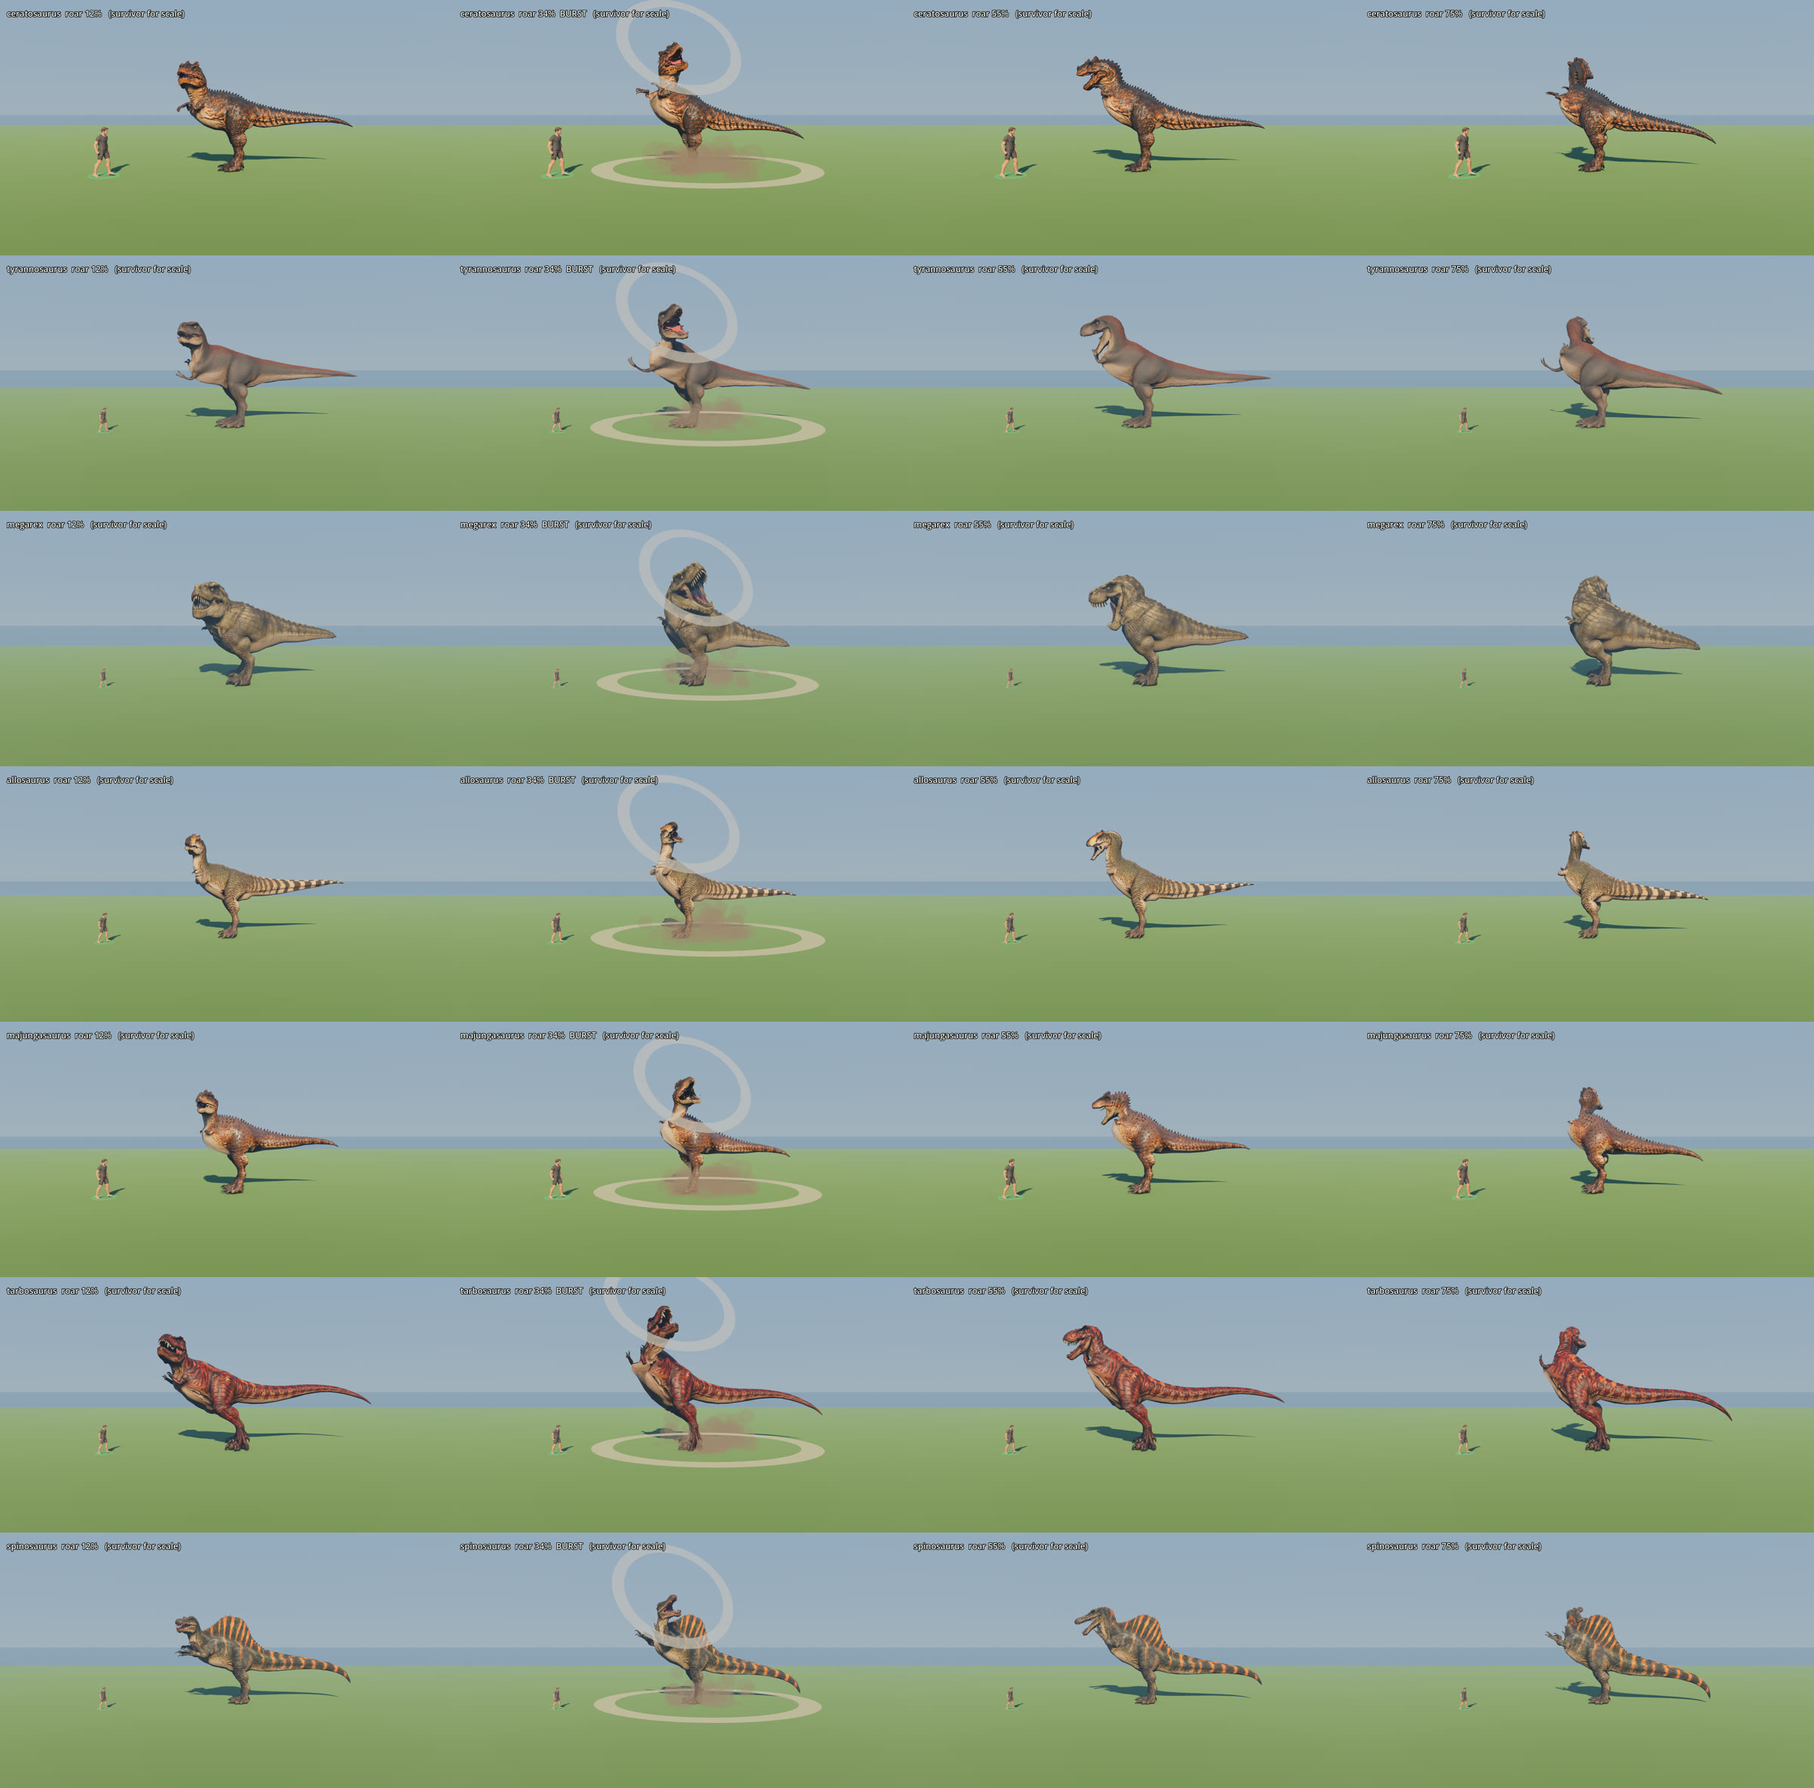
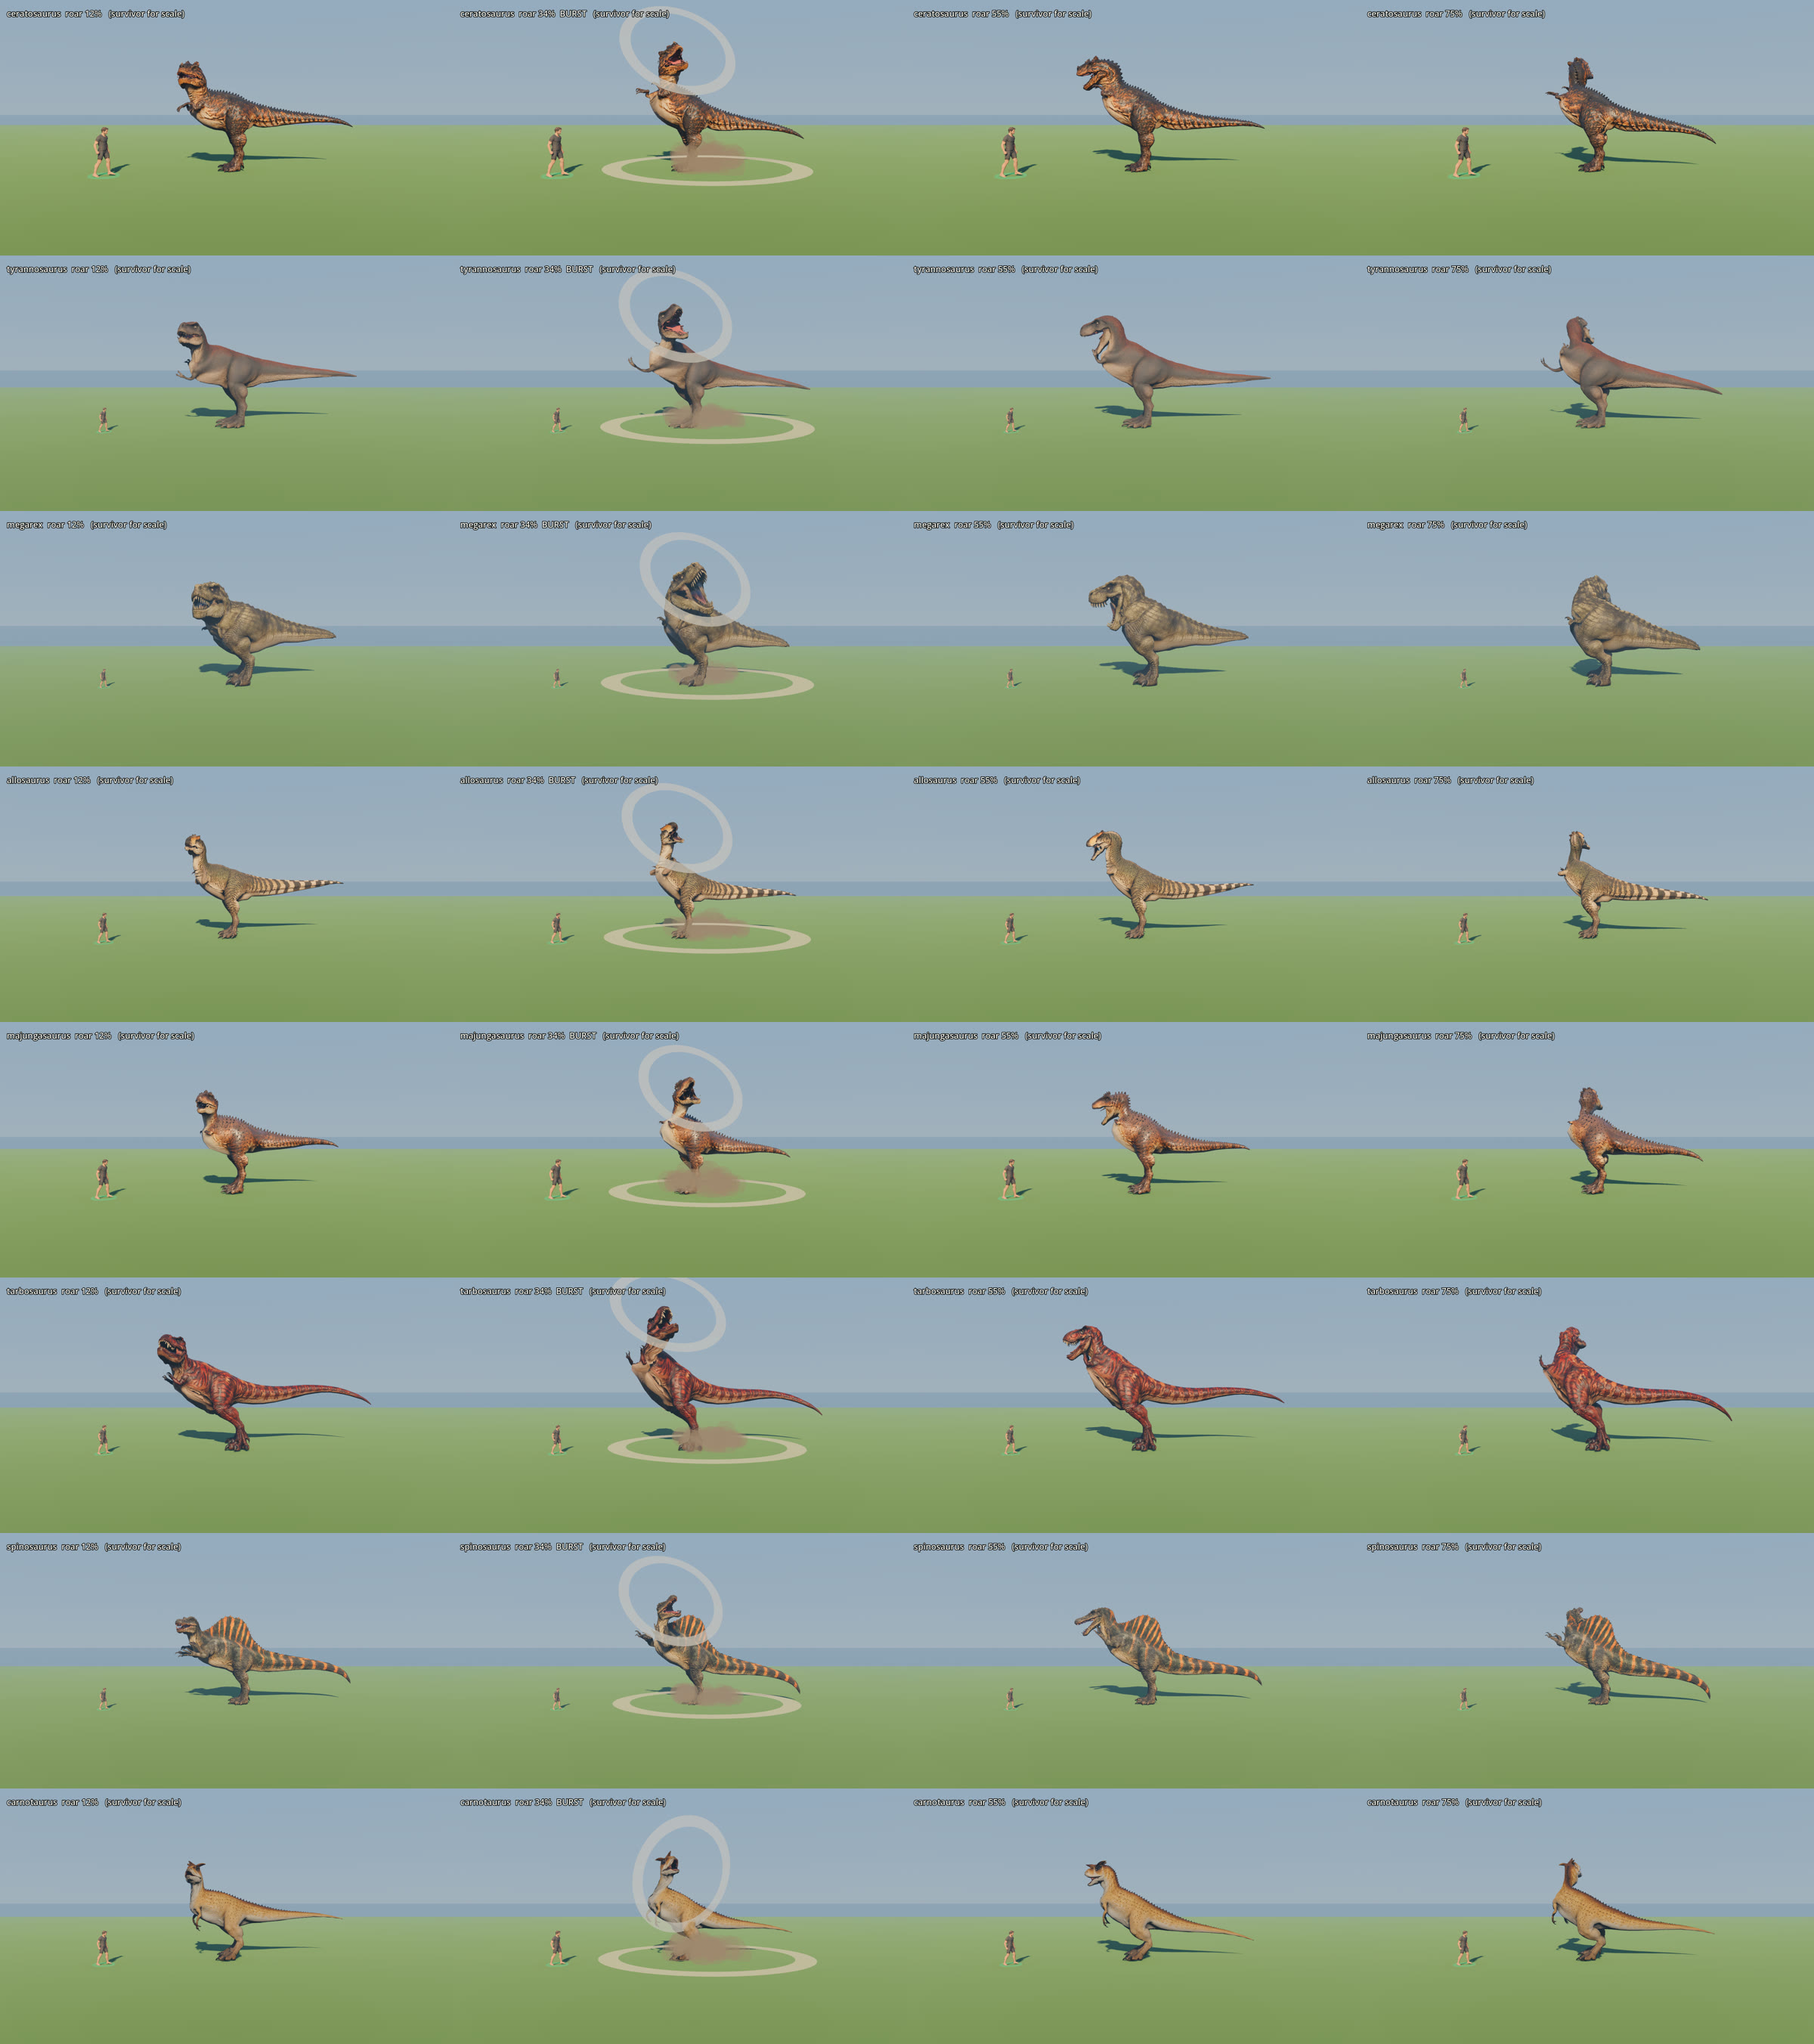
THERO-ROAR report: carnotaurus, merges

diff --git a/docs/orchestration/reports/claude-theroroar.md b/docs/orchestration/reports/claude-theroroar.md
@@ -1,6 +1,6 @@
 # claude-theroroar: rearing roar, ceratosaurus stance, spacing stomp
 
-Branch `claude/mmo-theroroar`, cut from `origin/claude/mmo-overhaul` 47dd42cd. Canon merged again at 91f348a6 (spinosaurus, cooldown UI). Pushed. Not merged to canon.
+Branch `claude/mmo-theroroar`, cut from `origin/claude/mmo-overhaul` 47dd42cd. Canon merged again several times as branches landed: 91f348a6 (spinosaurus, cooldown UI), 2eecfc3e (bigstomp, megatherium), 38ad8b87 (megajoust, gallimimus), a0d9bf1d (stegospin), and last c8a64c14 (carnofeel). Pushed. Not merged to canon.
 Credits: none. No Tripo, no Meshy, no Higgsfield. Blender only (headless).
 
 ## What the owner asked
@@ -14,7 +14,10 @@ Credits: none. No Tripo, no Meshy, no Higgsfield. Blender only (headless).
 - **0.30 to 0.80 (bellow):** the head sweeps a near-circular arc: high on the left, down and forward through the middle, up on the right. The hips (yawing on planted feet), the chest, both neck bones and the head all carry it. The snout's heading sweeps 215 to 223 deg. The tail swings the opposite way and the arms tremble.
 - **0.80 to 1.00:** it settles back to the idle's first frame.
 
-**Rigs that have it (7):** ceratosaurus, tyrannosaurus, megarex, allosaurus, majungasaurus, tarbosaurus, and spinosaurus, which landed on canon during this task. The carnotaurus is skipped as asked: add its row to `thero_roar.json` once claude/mmo-carnofeel lands.
+**Rigs that have it (8):** ceratosaurus, tyrannosaurus, megarex, allosaurus, majungasaurus, tarbosaurus, spinosaurus (which landed on canon during this task), and the carnotaurus, added after carnofeel landed.
+- The carnotaurus is a transplant rig with other bone names (Body/Neck/BackFoot, one neck bone).
+- Its two clips are authored with the same beats in its own `make_carno_moves.py` (`roar`, `spacing_stomp`, both added to `build_carnotaurus.sh`).
+- The game side is the same shared runtime, with no carnotaurus code.
 
 **Shared runtime:** `game/scripts/combat/thero_roar.gd` (TheroRoar), driven by data in `ai.json` `thero_roar`. Any rig with a `roar` clip uses it. There is no per-species code.
 - **On aggro:** `CreatureBrain._spot` plays the roar instead of the alert clip. A first hit while it is roaming or asleep (`on_aggro`) also roars. The brain holds still in alert for the roar's length.
@@ -25,11 +28,10 @@ Credits: none. No Tripo, no Meshy, no Higgsfield. Blender only (headless).
 - **The burst** fires at the clip's hit_frac, 0.34 in `anim_events.json`:
   - a breath ring blown out of the jaws along the snout;
   - a shockwave ring on the ground;
-  - a dust burst;
-  - a camera shake on the local survivor through the existing `IsoCamera.shake`.
-  - The shake scales with size (0.35 to 0.8 across 4 to 10.5 m) and fades to 0 at 6 body heights.
+  - a dust burst, using BigStomp's dust (`BigStomp.dust`, made static and shared at the bigstomp merge);
+  - a camera shake on the local survivor through BigStomp's shake (`BigStomp.shake_at_spot`, also made shared), which calls `IsoCamera.shake`.
+  - The roar's own numbers: the shake scales with size (0.35 to 0.8 across 4 to 10.5 m) and fades to 0 at 6 body heights.
 - **Sound:** none. Canon has no audio assets at all, so the burst is silent.
-- **Bigstomp:** its shake is not on canon. I used the same pattern (`IsoCamera.shake(local, amount x falloff)`) so the two can be unified when it lands.
 - **Labels:** the telegraph and opening labels name `roar` as ROAR.
 
 ## 2. Ceratosaurus stance
@@ -46,22 +48,25 @@ Credits: none. No Tripo, no Meshy, no Higgsfield. Blender only (headless).
 - the right foot is hauled up 0.7 to 1.5 m with the toes hanging and slammed back onto its own print;
 - the left foot never moves.
 
-It exists on the same 7 rigs. The tarbosaurus was added as "T. rex style" (ASSUMPTION).
+It exists on the same 8 rigs. The tarbosaurus was added as "T. rex style" (ASSUMPTION).
 
 **Runtime:** `game/scripts/combat/spacing_stomp.gd` (SpacingStomp), with data in `ai.json` `spacing_stomp`. CreatureBrain owns one (`spacing`) and ticks it before its think, the way bigstomp does.
 - **When it fires:** the target is standing and tucked in. That means ahead of the hips, but closer than the bite's jaw reach less 0.8 m, and inside the body's width. It also waits until no one-shot is playing and no leap or timed move owns the body.
-- **The slam:** the roar's shake helper (`TheroRoar.shake_local`), its ground ring and dust, and 0.15x attack damage.
+- **The slam:** the shared shake and dust (BigStomp's, through `TheroRoar.shake_local` / `ground_fx`), a shockwave ring, and 0.15x attack damage.
 - **The shove:** straight out in front, through `PlayerSim.shove`, then PlayerKnock.
   - She lands at the bite's reach, which is read from the species' own `attack_primary` jaw hitbox at its hit frame (`Hitbox.baked`), not a constant.
   - A knockdown slides exactly the push. A throw (the big ones) flies and then tumbles on, so the new `PlayerKnock.push_to_land` shortens the push by the tumble. Below the minimum throw it uses a higher, shorter arc.
-  - Measured landings were within 0.02 to 0.08 m of the reach on all 7 rigs.
+  - Measured landings were within 0.02 to 0.08 m of the reach on all 8 rigs.
 - **The follow-up:** it waits while she is in the air, then bites through the brain's own path. TacticalBrain tries the combo, then the bite. TyrantBrain uses a new `follow_up_bite()` timed bite.
-- **Bigstomp:** it is not on canon (`git log origin/claude/mmo-overhaul | grep -i bigstomp` is empty), so this is built standalone. The clip, class, data key and brain field all have their own names (`spacing_stomp`, `SpacingStomp`, `spacing`) so the two moves stay distinct. Expect a small textual conflict in `creature_brain.gd`, `creature_clips.gd`, `creature_anim.gd` and `ai.json` when bigstomp merges.
-- **Hitbox data:** the ceratosaurus, allosaurus, majungasaurus and spinosaurus `attack_primary` rows in `hitboxes.json` gained `aim_down_m` = 0.55 x height (ASSUMPTION). Without it their standing-height bites missed a survivor lying on the ground. This also lets their ordinary bites reach a downed or low target.
+- **Bigstomp** landed during the task and is merged. The two moves stay distinct: the clip, class, data key and brain field all have their own names (`spacing_stomp`, `SpacingStomp`, `spacing`), and the big stomp keeps its damage, pin and ring.
+  - Where a rig has both (tyrannosaurus, megarex, tarbosaurus, ceratosaurus), BigStomp ticks first and takes her whenever she is in its ring and it is ready. The spacing stomp fills in while it cools down (3.5 s) or when she is tucked in outside its ring. ASSUMPTION: that priority.
+  - The test and the lab put the big stomp on cooldown to isolate the spacing stomp.
+- **Hitbox data:** the ceratosaurus, allosaurus, majungasaurus and spinosaurus `attack_primary` rows in `hitboxes.json` gained `aim_down_downed_m` = 0.55 x height (ASSUMPTION). `Hitbox._aim_offsets` reads this new key only against a target lying knocked down. Without it their standing-height bites missed her on the ground.
+  - A first version used the plain `aim_down_m` on every bite, which tripped t_hitboxes' perf gate (worst 3.3 ms against the 3.0 gate). The downed-only key keeps standing fights at canon cost.
 
 ## Gates
 - `t_theroroar` (new): **PASS**. It checks:
-  - All 7 rigs have the clip, sampled in the engine at game scale:
+  - All 8 rigs have the clip, sampled in the engine at game scale:
     - feet planted, worst 0.026 m against the 5 cm limit;
     - head sweep 215 to 220 deg;
     - the hips rise and the jaw opens 30 to 65 deg.
@@ -70,7 +75,7 @@ It exists on the same 7 rigs. The tarbosaurus was added as "T. rex style" (ASSUM
   - There is no second roar inside the cooldown.
   - The shake falls off with distance and grows with size.
   - MegaRex's phase-2 roar fires, and its impact bursts.
-- `t_spacingstomp` (new): **PASS**. All 7 rigs build a stomp and a velociraptor has none. Live on all 7, with her tucked at 0.35 of the jaw reach:
+- `t_spacingstomp` (new): **PASS**. All 8 rigs build a stomp and a velociraptor has none. Live on all 8, with her tucked at 0.35 of the jaw reach:
   - it stomps after 0.02 s;
   - the ground shakes;
   - she is knocked down or thrown;
@@ -88,13 +93,13 @@ It exists on the same 7 rigs. The tarbosaurus was added as "T. rex style" (ASSUM
 
 ## Shots (`docs/orchestration/reports/theroroar/`)
 All shots come from off-screen windowed runs of the new `theroroar_lab` (`--position 6000,3000`, self-quitting, `-- --skip-charcreate`), and I looked at each one.
-- `roar_contact_sheet_tq.jpg` and `roar_contact_sheet_side.jpg`: 7 species at 12/34/55/75 % from a front three-quarter and the side, with the survivor for scale. The 34 % column is the burst, with the breath ring, ground ring and dust.
+- `roar_contact_sheet_tq.jpg` and `roar_contact_sheet_side.jpg`: 8 species at 12/34/55/75 % from a front three-quarter and the side, with the survivor for scale. The 34 % column is the burst, with the breath ring, ground ring and dust.
 - `ceratosaurus_stance_before_after.jpg`. The top row is from behind at the fight camera's 38.7 deg pitch; the bottom row is side on. The four columns are:
   - idle before;
   - idle after;
   - alert at 50 % before;
   - alert at 50 % after.
-- `spacing_stomp_hit_and_bite.jpg`: live fights for all 7, at the slam (dust ring, shake value) and at the follow-up bite's hit frame. The caption gives the push and the jaw reach.
+- `spacing_stomp_hit_and_bite.jpg`: live fights for all 8, at the slam (dust ring, shake value) and at the follow-up bite's hit frame. The caption gives the push and the jaw reach.
 - To reproduce:
   - `--lab=theroroar_lab --out=DIR [--species=..] [--clip=roar] [--pcts=..] [--cams=tq,side,behind]`
   - `--lab=theroroar_lab --out=DIR --stomp --species=<id>` (one species per run: running several in one process left the survivor's state dirty between them).
@@ -105,6 +110,10 @@ All shots come from off-screen windowed runs of the new `theroroar_lab` (`--posi
 - **Camera shake** cannot be seen in a still shot. The tests assert the amounts.
 - **The ceratosaurus head was not resized,** only re-posed, as the owner suggested.
 - **Shared files touched:**
+  - `big_stomp.gd`: `dust` and `shake_at_spot` are static and shared. Its behaviour is unchanged and t_bigstomp passes.
+  - `hitbox.gd`: `aim_down_downed_m`.
+  - Test files changed for the new behaviour: `t_sp_megarex`, `t_rexclips`, `t_sp_majungasaurus` (clip count), `t_sp_spinosaurus` (its fights start after the spot roar), `t_sp_carnotaurus` (no spot roar in its unit fights).
+  - `t_theroroar` and `check_thero_roar.py` measure the head's rise and the jaw's turn against the head, so they work on any rig.
   - `creature_brain.gd`: the roar in `_spot` and `on_aggro`; the `spacing` tick and `spacing_ready` / `_body_committed`.
   - `tactical_brain.gd`: `_body_committed`.
   - `tyrant_brain.gd`: labels, `follow_up_bite`, `_body_committed`.
@@ -112,5 +121,5 @@ All shots come from off-screen windowed runs of the new `theroroar_lab` (`--posi
   - `creature_anim.gd` and `creature_clips.gd`: new one-shots.
   - `telegraph.gd`: label.
   - `player_knock.gd`: `push_to_land`.
-  - Data: `ai.json`, `anim_events.json`, `hitboxes.json`, and 7 species jsons, whose pipeline clips gained `roar` and `spacing_stomp`.
+  - Data: `ai.json`, `anim_events.json`, `hitboxes.json`, and 8 species jsons, whose pipeline clips gained `roar` and `spacing_stomp`.
 - **Every number in `thero_roar.json` and in `ai.json` `thero_roar` / `spacing_stomp` is an ASSUMPTION** tuned on renders.
